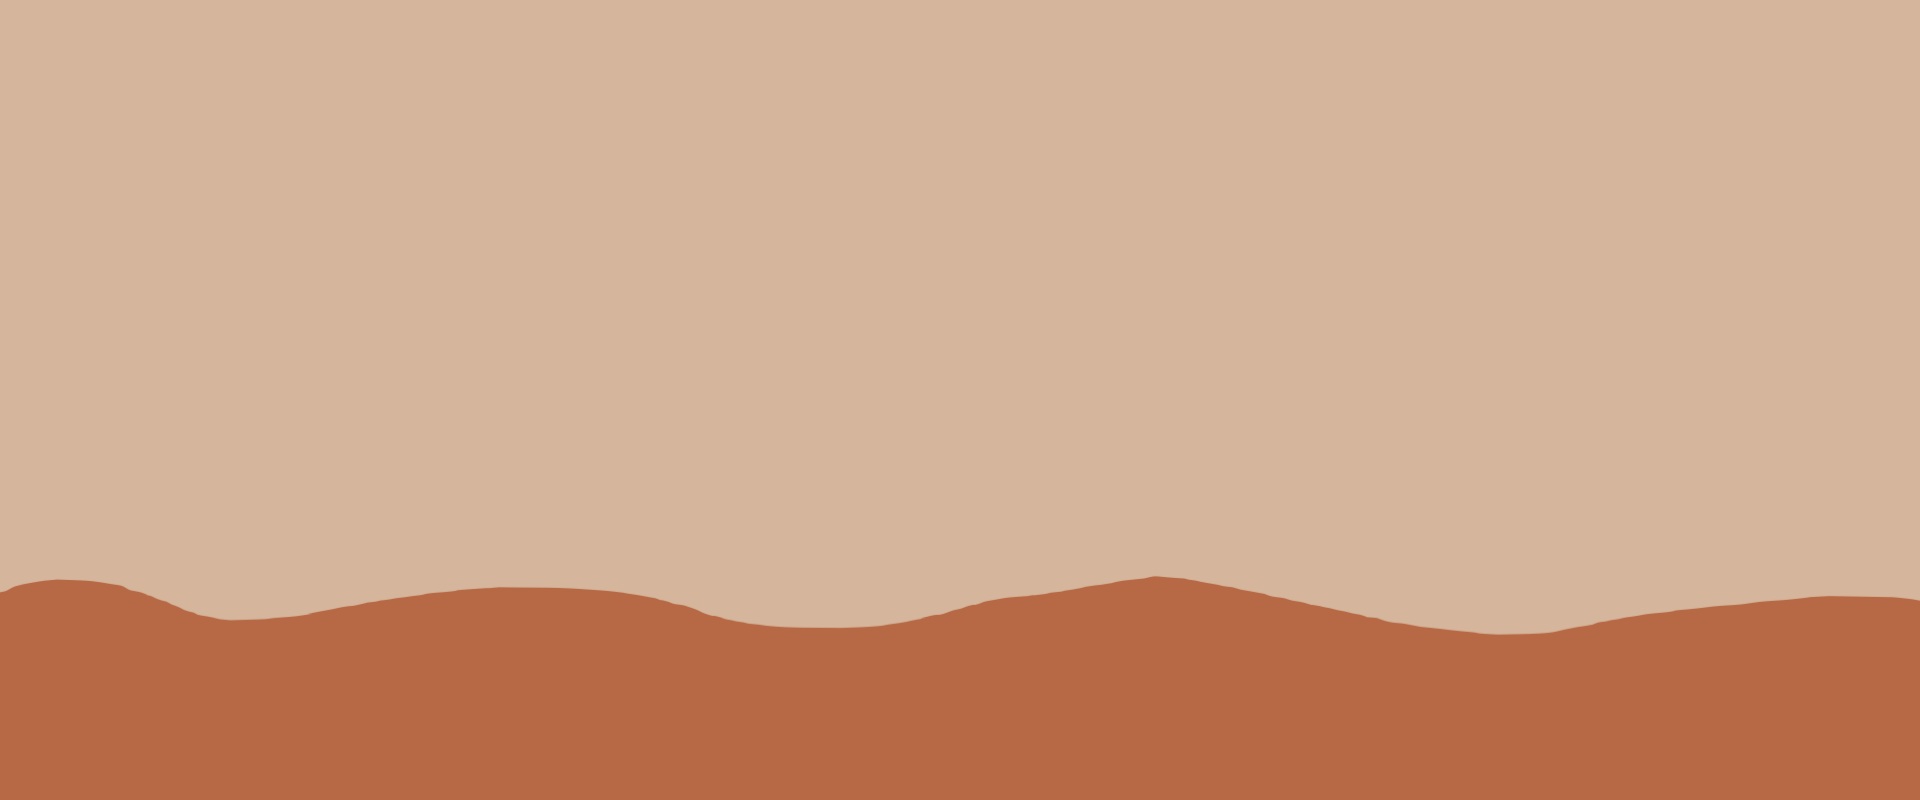
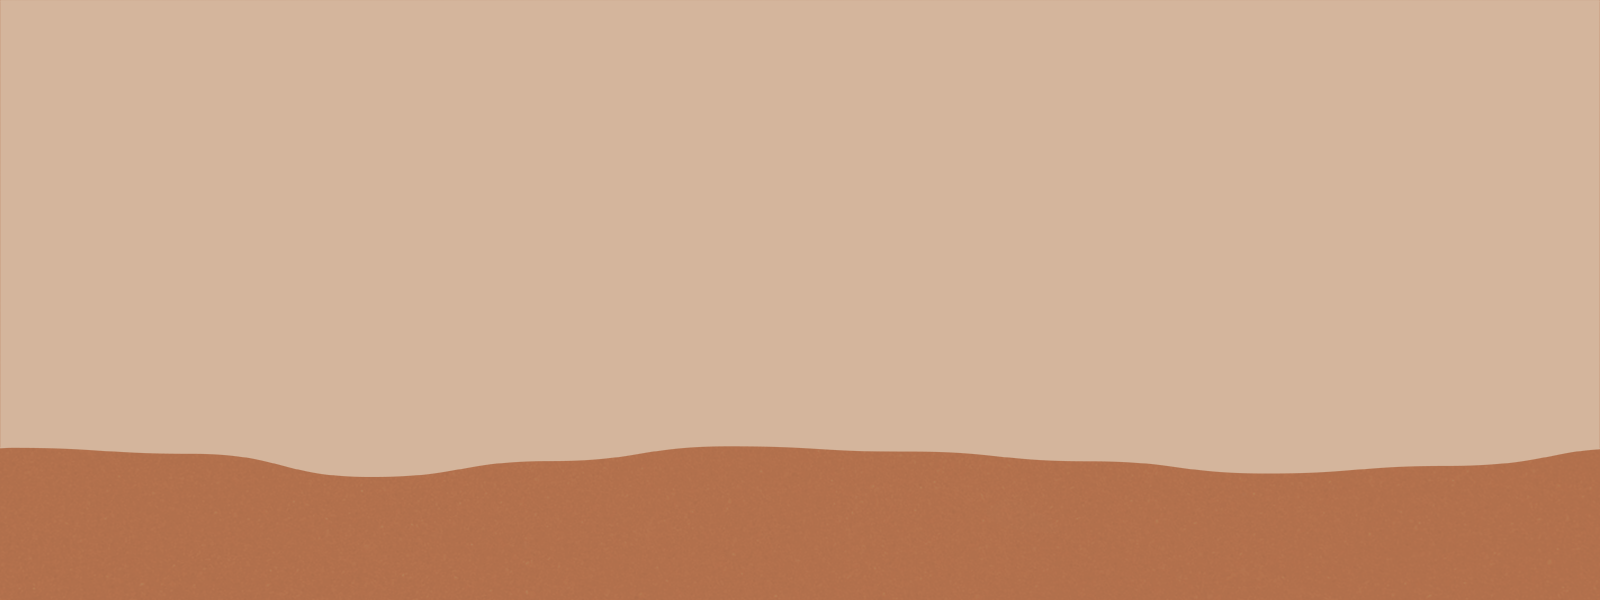
better bg

diff --git a/components/PageHeader/index.js b/components/PageHeader/index.js
@@ -22,12 +22,39 @@ const PageHeader = () => {
 
   return (
     <>
-      <Popover className="block tablet:hidden">
+      <Popover className="sticky top-0 z-10 tablet:hidden">
         {({ open }) => (
           <>
-            <div className="flex items-center justify-end p-2 laptop:p-0">
+            <div
+              className={`flex justify-between ${
+                theme === "dark" ? "bg-moonsky" : "bg-marssky"
+              } dark:text-white`}
+            >
+              {theme === "dark" ? (
+                <div className="sliding mt-5">
+                    {mounted && (
+                      <Image
+                      alt="rover"
+                      src="/images/header/pixel-cobra.png"
+                      width={32}
+                      height={32}
+                      ></Image>
+                    )}
+                </div>
+              ) : (
+                <div className="sliding">
+                  {mounted && (
+                    <Image
+                    alt="rover"
+                    src="/images/header/pixel-persy.png"
+                    width={71}
+                    height={55}
+                    ></Image>
+                  )}
+                </div>
+              )}
 
-              <div className="flex items-center">
+              <div className="flex items-center mr-2">
                 <Button
                   onClick={() =>
                     setTheme(theme === "dark" ? "light" : "dark")
@@ -50,11 +77,11 @@ const PageHeader = () => {
                     src={`/images/header/${
                       !open
                         ? theme === "dark"
-                          ? "menu.svg"
-                          : "menu-white.svg"
+                          ? "menu-white.svg"
+                          : "menu.svg"
                         : theme === "light"
-                        ? "cancel-white.svg"
-                        : "cancel.svg"
+                        ? "cancel.svg"
+                        : "cancel-white.svg"
                     }`}
                     height={32}
                     width={32}
@@ -63,12 +90,12 @@ const PageHeader = () => {
               </div>
             </div>
             <Popover.Panel
-              className={`absolute right-0 z-10 w-1/4 p-4 ${
-                theme === "dark" ? "bg-white" : "bg-slate-800"
+              className={`absolute right-0 z-10 w-1/5 p-1 ${
+                theme === "dark" ? "bg-[#262628]" : "bg-[#d5b69d]"
               } shadow-md rounded-md`}
             >
-              <div className="grid grid-cols-1">
-                <Button onClick={() => router.push("/")} classes="first:ml-1">
+              <div className="grid grid-cols-1 items-center text-center">
+                <Button onClick={() => router.push("/")} type="header">
                   Home
                 </Button>
               </div>
@@ -113,6 +140,7 @@ const PageHeader = () => {
           {mounted && theme && (
             <Button
               onClick={() => setTheme(theme === "dark" ? "light" : "dark")}
+              type="header"
             >
               <Image
                 alt="darkmode toggle"

diff --git a/pages/index.js b/pages/index.js
@@ -50,11 +50,13 @@ export default function Home() {
   
   useIsomorphicLayoutEffect(() => {
     stagger(
-      textOne.current,
-      { y: 40, x: -10, transform: "scale(0.95) skew(10deg)" },
-      { y: 0, x: 0, transform: "scale(1)" }
+      ".letter",
+      0.2,
+      { y: 0, x: -100},
+      { y: 0, x: 0,}
     );
   }, []);
+  
 
   const { theme } = useTheme();
 
@@ -63,7 +65,7 @@ export default function Home() {
 
   return (
     <div className={`relative
-    ${theme === "dark" ? "bg-[#D9D9D9] text-black" : "bg-[#B76945] text-white"}
+    ${theme === "dark" ? "bg-moonsoil text-black" : "bg-marssoil text-white"}
     `}>
 
       <Head>
@@ -81,9 +83,19 @@ export default function Home() {
           <div>
             <h1
               ref={textOne}
-              className="text-5xl tablet:text-6xl laptopl:text-8xl p-1 tablet:p-2 font-bungee"
+              className="text-5xl tablet:text-6xl laptop:text-8xl p-1 tablet:p-2"
             >
-              Henry Noyes
+              <span className="letter font-bungee">H</span>
+              <span className="letter font-bungee">e</span>
+              <span className="letter font-bungee">n</span>
+              <span className="letter font-bungee">r</span>
+              <span className="letter font-bungee">y</span>
+              {" "}
+              <span className="letter font-bungee">N</span>
+              <span className="letter font-bungee">o</span>
+              <span className="letter font-bungee">y</span>
+              <span className="letter font-bungee">e</span>
+              <span className="letter font-bungee">s</span>
             </h1>
           </div>
         </div>

diff --git a/components/About/index.js b/components/About/index.js
@@ -1,8 +1,11 @@
 import React from "react";
 import Link from "next/link";
 import Image from "next/image";
+import { useTheme } from "next-themes";
 
 const About = ({}) => {
+  const { theme } = useTheme();
+
   return (
     <>
       <div className="laptop:flex flex-row justify-center gap-4">
@@ -30,13 +33,13 @@ const About = ({}) => {
             considering pursuing a Master&apos;s degree in robotics. In my time outside of the classroom, I work as a lab assistant at the
             {" "}
             <Link href="https://web.northeastern.edu/ipl/">
-            <a className="text-link" target="_blank" rel="noopener noreferrer">Introductory Physics Laboratory</a>
+            <a className={theme === "dark" ? "text-link-red" : "text-link-blue"} target="_blank" rel="noopener noreferrer">Introductory Physics Laboratory</a>
             </Link>
             {" "}
             at Northeastern and a robotics researcher at the 
             {" "}
             <Link href="https://siliconsynapse.sites.northeastern.edu/">
-            <a className="text-link" target="_blank" rel="noopener noreferrer">Silicon Synapse Lab</a>
+            <a className={theme === "dark" ? "text-link-red" : "text-link-blue"} target="_blank" rel="noopener noreferrer">Silicon Synapse Lab</a>
             </Link>
             —more about that below!
           </p>

diff --git a/components/MovingHeader/index.js b/components/MovingHeader/index.js
@@ -91,17 +91,17 @@ const MovingHeader = ({ handleWorkScroll, handleAboutScroll, handleProjectScroll
               </div>
             </div>
             <Popover.Panel
-              className={`absolute right-0 z-10 w-1/4 p-4 ${
-                theme === "dark" ? "bg-white" : "bg-slate-800"
+              className={`absolute right-0 z-10 w-1/4 p-1 ${
+                theme === "dark" ? "bg-[#262628]" : "bg-[#d5b69d]"
               } shadow-md rounded-md`}
             >
-              <div className="grid grid-cols-1">
-                <Button onClick={() => router.push("/")} classes="first:ml-1">
+              <div className="grid grid-cols-1 items-center">
+                <Button onClick={() => router.push("/")} type="header">
                   Home
                 </Button>
-                <Button onClick={handleAboutScroll}>About</Button>
-                <Button onClick={handleWorkScroll}>Work</Button>
-                <Button onClick={handleProjectScroll}>Projects</Button>
+                <Button onClick={handleAboutScroll} type="header">About</Button>
+                <Button onClick={handleWorkScroll} type="header">Work</Button>
+                <Button onClick={handleProjectScroll} type="header">Projects</Button>
               </div>
             </Popover.Panel>
           </>

diff --git a/components/Button/index.js b/components/Button/index.js
@@ -19,8 +19,11 @@ const Button = ({ children, type, onClick, classes }) => {
       <button
         onClick={onClick}
         type="button"
-        className={`text-sm tablet:text-base p-1 laptop:p-2 m-1 laptop:m-2 rounded-lg flex items-center transition-all ease-out duration-300 
-        hover:bg-red-800 text-white hover:scale-105 active:scale-100  tablet:first:ml-0 ${classes} link`}
+        className={`text-sm tablet:text-base p-1 laptop:p-2 m-1 laptop:m-2 rounded-lg flex justify-center items-center transition-all ease-out duration-300 ${
+          theme === "dark"
+            ? "hover:bg-red-800 text-white"
+            : "hover:bg-red-200 text-black"
+        } hover:scale-105 active:scale-100 ${classes} link`}
       >
         {children}
       </button>
@@ -34,7 +37,7 @@ const Button = ({ children, type, onClick, classes }) => {
         theme === "dark"
           ? "hover:bg-red-200"
           : "hover:bg-red-800 text-white"
-      } hover:scale-105 active:scale-100  tablet:first:ml-0 ${classes} link`}
+      } hover:scale-105 active:scale-100 tablet:first:ml-0 ${classes} link`}
     >
       {children}
     </button>

diff --git a/components/GalleryCard/index.js b/components/GalleryCard/index.js
@@ -2,10 +2,13 @@ import React, { useState }from "react";
 import Image from "next/image";
 import Button from "../Button";
 import Link from "next/link";
+import { useTheme } from "next-themes";
 
 const GalleryCard = ({ img, AR_src, w_disp, h_disp, name, linkText, linkURL}) => {
 
   const [isModalOpen, setModalOpen] = useState(false);
+  const { theme } = useTheme();
+
 
   const openModal = () => {
     setModalOpen(true);
@@ -40,7 +43,7 @@ const GalleryCard = ({ img, AR_src, w_disp, h_disp, name, linkText, linkURL}) =>
       <div className="flex items-center justify-center">
         <h2 className="mt-2 text-lg tablet:text-xl">
           <Link href={linkURL}>
-            <a className="text-link" target="_blank" rel="noopener noreferrer">{linkText}</a>
+            <a className={theme === "dark" ? "text-link-red" : "text-link-blue"} target="_blank" rel="noopener noreferrer">{linkText}</a>
           </Link>
         </h2>
       </div>

diff --git a/styles/globals.css b/styles/globals.css
@@ -13,12 +13,20 @@
   font-family: 'Source Sans Pro', sans-serif;
 }
 
-.text-link {
+.text-link-red {
   color: rgb(255 0 0);
 }
-.text-link:hover {
+.text-link-red:hover {
   text-decoration-line: underline;
   color: rgb(255 75 75);
+}
+
+.text-link-blue {
+  color: rgb(150 225 255);
+}
+.text-link-blue:hover {
+  text-decoration-line: underline;
+  color: rgb(190, 225, 255);
 }
 
 .image-link {
@@ -51,12 +59,12 @@
 }
 
 .bg-moonsoil {
-  background-image: url("/images/dots.png");
+  background-image: url("/images/bg-moonsoil.png");
   background-repeat: repeat;
 }
 
 .bg-marssoil {
-  background-image: url("/images/dots.png");
+  background-image: url("/images/bg-marssoil.png");
   background-repeat: repeat;
 }
 
@@ -88,4 +96,8 @@
   justify-content: center;
   align-items: center;
   height: 100%;
+}
+
+.letter {
+  visibility: hidden;
 }

diff --git a/animations/index.js b/animations/index.js
@@ -3,11 +3,11 @@ import { ScrollTrigger } from "gsap/dist/ScrollTrigger";
 
 gsap.registerPlugin(ScrollTrigger);
 
-export const stagger = (target, fromvVars, toVars) => {
+export const stagger = (targets, speed, fromVars, toVars) => {
   return gsap.fromTo(
-    target,
-    { opacity: 0, ...fromvVars },
-    { opacity: 1, ...toVars, stagger: 0.2, ease: Power3.easeOut }
+    targets,
+    { autoAlpha: 0, ...fromVars },
+    { autoAlpha: 1, ...toVars, stagger: speed, ease: Power3.easeOut },
   );
 };
 
@@ -17,7 +17,7 @@ export const slide = (target, offset) => {
       scrollTrigger: {
         scrub: 1,
       },
-      x: document.documentElement.scrollWidth - offset,
+      x: document.documentElement.scrollWidth < 768 ? document.documentElement.scrollWidth - 160 : document.documentElement.scrollWidth - offset,
     }
   );
 };

diff --git a/pages/cobra/index.js b/pages/cobra/index.js
@@ -17,7 +17,8 @@ const CobraPage = () => {
   useIsomorphicLayoutEffect(() => {
     stagger(
       textOne.current,
-      { y: 40, x: -10, transform: "scale(0.95) skew(10deg)" },
+      1,
+      { y: -40, x: -10, transform: "scale(0.8)" },
       { y: 0, x: 0, transform: "scale(1)" }
     );
   }, []);
@@ -26,7 +27,7 @@ const CobraPage = () => {
 
   return (
     <div className={`relative
-    ${theme === "dark" ? "bg-[#D9D9D9] text-black" : "bg-[#B76945] text-white"}
+    ${theme === "dark" ? "bg-moonsoil text-black" : "bg-marssoil text-white"}
     `}>
 
       <Head>

diff --git a/pages/river/index.js b/pages/river/index.js
@@ -17,7 +17,8 @@ const RiverPage = () => {
   useIsomorphicLayoutEffect(() => {
     stagger(
       textOne.current,
-      { y: 40, x: -10, transform: "scale(0.95) skew(10deg)" },
+      1,
+      { y: -40, x: -10, transform: "scale(0.8)" },
       { y: 0, x: 0, transform: "scale(1)" }
     );
   }, []);
@@ -26,7 +27,7 @@ const RiverPage = () => {
 
   return (
     <div className={`relative
-    ${theme === "dark" ? "bg-[#D9D9D9] text-black" : "bg-[#B76945] text-white"}
+    ${theme === "dark" ? "bg-moonsoil text-black" : "bg-marssoil text-white"}
     `}>
 
       <Head>

diff --git a/pages/maat/index.js b/pages/maat/index.js
@@ -17,7 +17,8 @@ const MaatPage = () => {
   useIsomorphicLayoutEffect(() => {
     stagger(
       textOne.current,
-      { y: 40, x: -10, transform: "scale(0.95) skew(10deg)" },
+      1,
+      { y: -40, x: -10, transform: "scale(0.8)" },
       { y: 0, x: 0, transform: "scale(1)" }
     );
   }, []);
@@ -26,7 +27,7 @@ const MaatPage = () => {
 
   return (
     <div className={`relative
-    ${theme === "dark" ? "bg-[#D9D9D9] text-black" : "bg-[#B76945] text-white"}
+    ${theme === "dark" ? "bg-moonsoil text-black" : "bg-marssoil text-white"}
     `}>
 
       <Head>

diff --git a/pages/template/index.js b/pages/template/index.js
@@ -17,7 +17,8 @@ const PageName = () => {
   useIsomorphicLayoutEffect(() => {
     stagger(
       textOne.current,
-      { y: 40, x: -10, transform: "scale(0.95) skew(10deg)" },
+      1,
+      { y: -40, x: -10, transform: "scale(0.8)" },
       { y: 0, x: 0, transform: "scale(1)" }
     );
   }, []);
@@ -26,7 +27,7 @@ const PageName = () => {
 
   return (
     <div className={`relative
-    ${theme === "dark" ? "bg-[#D9D9D9] text-black" : "bg-[#B76945] text-white"}
+    ${theme === "dark" ? "bg-moonsoil text-black" : "bg-marssoil text-white"}
     `}>
 
       <Head>
